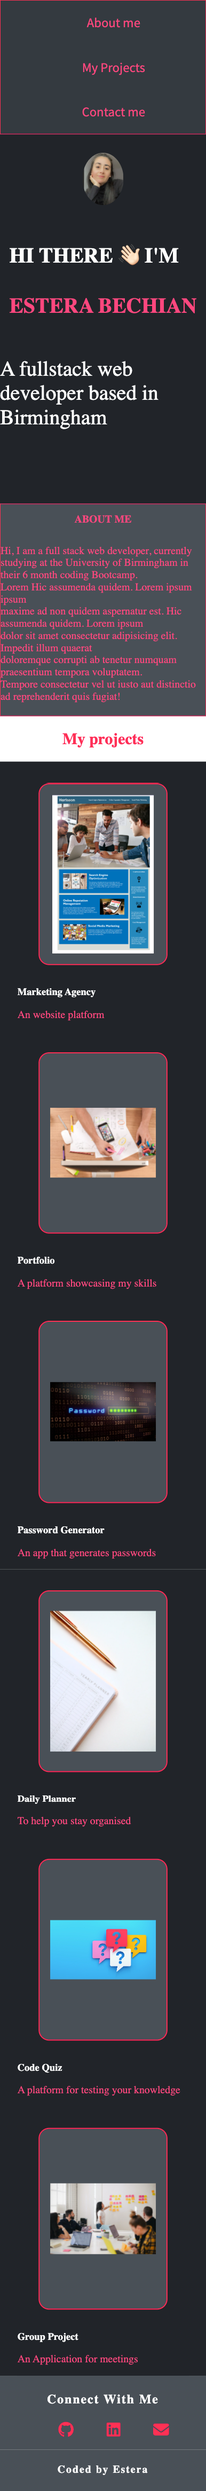
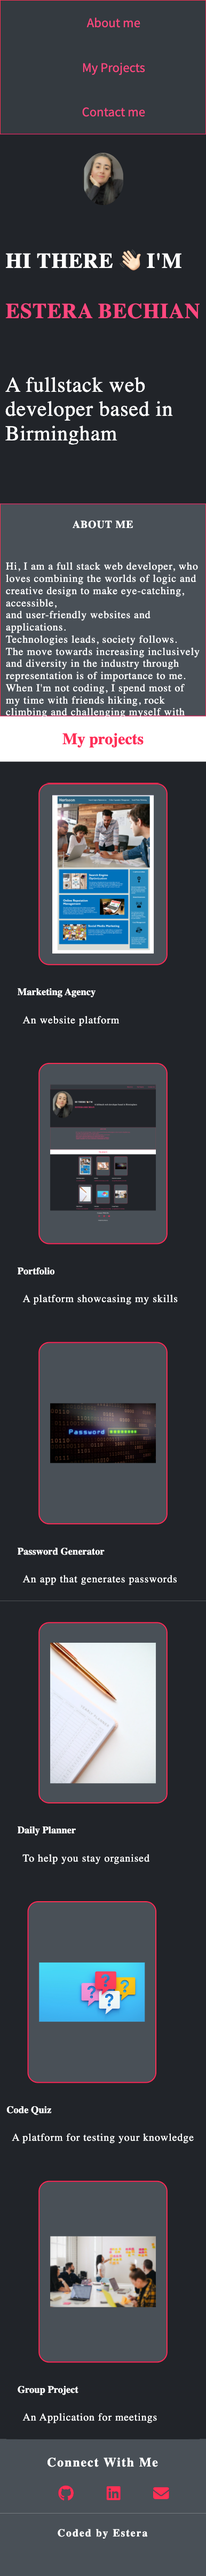
updated the reademe file with new screenshots according to the changes made it to the website page

Changed region(s): [[0.0, 0.0, 1.0, 0.9944], [0.6218, 0.0, 0.6839, 0.0622]]

diff --git a/assets/css/styles.css b/assets/css/styles.css
@@ -22,6 +22,8 @@ body {
   display: flex;
   flex-direction: row;
   justify-content: flex-end;
+  position: fixed;
+  width: 100vw;
   border: solid 1px var(--radical-red);
 }
 
@@ -84,9 +86,8 @@ body {
 
 /* my photo */
 .center {
-  padding: 30px;
-  display: block;
-  margin: 5px;
+  padding: 60px;
+  margin: 40px;
   width: 20%;
   border-radius: 50%;
 }
@@ -105,7 +106,7 @@ p {
   font-size: 20px;
   color: #fff;
   letter-spacing: 1px;
-  padding: 10px;
+  padding: 30px;
 }
 span {
   color: var(--french-rose);
@@ -143,6 +144,7 @@ span {
 
 h3 {
   color: #fff;
+  margin: 30px;
 }
 #contact {
   height: 120px;

diff --git a/README.md b/README.md
@@ -3,8 +3,8 @@
 ### 🚀 Getting started
 
 My personal portfolio showcasing my projects.
-For this projects we were asked to showcase our skills and projects.
-The portfolio webpage is fully responsive, mobile friendly. There are six projects displayed, etc.
+For this project I builded this portfolio using Html and CSS to showcase all of the projects I have completed so far in my coding journey.
+The portfolio webpage is fully responsive, mobile friendly.
 
 ### 💥 Deployed URL
 
@@ -20,9 +20,10 @@ The portfolio webpage is fully responsive, mobile friendly. There are six projec
 
 ### 📷 Screenshots
 
-#### Viewport
+## Viewport
 
 ![mobile-viewport](./assets/css/images/screenshots/mobile.png)
 
-**Desktop-viewport**
+## Desktop viewport
+
 ![desktop-version](./assets/css/images/screenshots/view-port.png)
